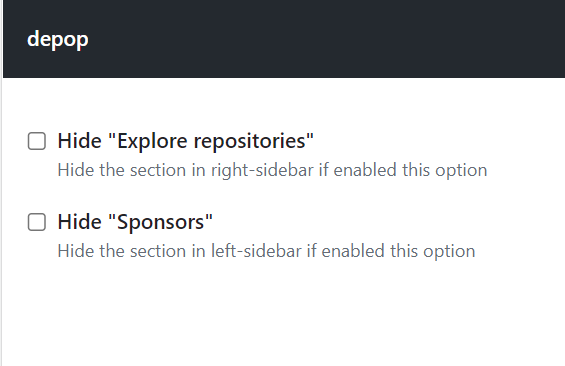
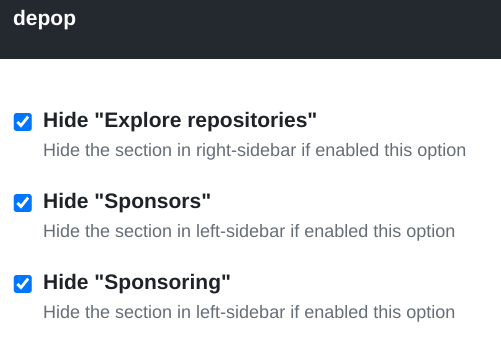
Implement option to hide Sponsors (#183)
* Implement option hide Sponsors

* `dprint fmt`

* Fix crucial typo

* Fix crucial typo more

* Update screenshot for options

diff --git a/src/options/App.tsx b/src/options/App.tsx
@@ -12,16 +12,22 @@ function App() {
     isHideSponsors,
     setIsHideSponsors,
   ] = useState(false);
+  const [
+    isHideSponsoring,
+    setIsHideSponsoring,
+  ] = useState(false);
 
   useEffect(() => {
     chrome.storage.sync.get([
       'isHideExploreRepositories',
       'isHideSponsors',
+      'isHideSponsoring',
     ]).then((keys): void => {
       setIsHideExploreRepositories(
         keys.isHideExploreRepositories,
       );
       setIsHideSponsors(keys.isHideSponsors);
+      setIsHideSponsoring(keys.isHideSponsoring);
     }).finally(() => setIsLoading(false));
   }, []);
 
@@ -85,6 +91,35 @@ function App() {
         <p
           className='note'
           id='help-text-for-isHideSponsors-checkbox'
+        >
+          Hide the section in left-sidebar if enabled this option
+        </p>
+      </div>
+      <div className='form-checkbox'>
+        <label>
+          <input
+            type='checkbox'
+            checked={isHideSponsoring}
+            aria-describedby='help-text-for-isHideSponsoring-checkbox'
+            onChange={(_ev) => {
+              const toggled = !isHideSponsoring;
+              setIsHideSponsoring(
+                toggled,
+              );
+              chrome.storage.sync.set({
+                'isHideSponsoring': toggled,
+              }).then(() => {
+                console.log(
+                  `isHideSponsoring is set to ${toggled}`,
+                );
+              });
+            }}
+          />
+          Hide "Sponsoring"
+        </label>
+        <p
+          className='note'
+          id='help-text-for-isHideSponsoring-checkbox'
         >
           Hide the section in left-sidebar if enabled this option
         </p>

diff --git a/src/github-patcher.ts b/src/github-patcher.ts
@@ -18,6 +18,7 @@ const hideExploreRepositories = (): void => {
   }
 };
 
+// Sponsor: Received from
 const hideSponsors = (): void => {
   const sponsorsH2Node = document.evaluate(
     "/html/body//div[@class='Layout-sidebar']//h2[text()='Sponsors']",
@@ -31,6 +32,23 @@ const hideSponsors = (): void => {
 
   if (sponsorsComponent) {
     hide(sponsorsComponent);
+  }
+};
+
+// Sponsoring: Paid for
+const hideSponsoring = (): void => {
+  const sponsoring2Node = document.evaluate(
+    "/html/body//div[@class='Layout-sidebar']//h2[text()='Sponsoring']",
+    document,
+    null,
+    XPathResult.FIRST_ORDERED_NODE_TYPE,
+    null,
+  ).singleNodeValue;
+
+  const sponsoringComponent = sponsoring2Node?.parentElement?.parentElement;
+
+  if (sponsoringComponent) {
+    hide(sponsoringComponent);
   }
 };
 
@@ -53,15 +71,22 @@ const hideComponents = (): void => {
   chrome.storage.sync.get([
     'isHideExploreRepositories',
     'isHideSponsors',
-  ]).then(({ isHideExploreRepositories, isHideSponsors }): void => {
-    if (isHideExploreRepositories) {
-      hideExploreRepositories();
-    }
+    'isHideSponsoring',
+  ]).then(
+    ({ isHideExploreRepositories, isHideSponsors, isHideSponsoring }): void => {
+      if (isHideExploreRepositories) {
+        hideExploreRepositories();
+      }
 
-    if (isHideSponsors) {
-      hideSponsors();
-    }
-  });
+      if (isHideSponsors) {
+        hideSponsors();
+      }
+
+      if (isHideSponsoring) {
+        hideSponsoring();
+      }
+    },
+  );
 
   hideHighlights();
 };

diff --git a/README.md b/README.md
@@ -34,8 +34,9 @@ Some features can be hidden by enabling them on the [Options page](https://devel
 - Pinned Repositories
 - "Explore repositories" and/or the stars
 - Sponsors
-- Achievements # 0.0.0.13+
-- Highlights # 0.0.0.13+
+- Sponsoring
+- Achievements
+- Highlights
 
 ### Suppressible third party stats
 
